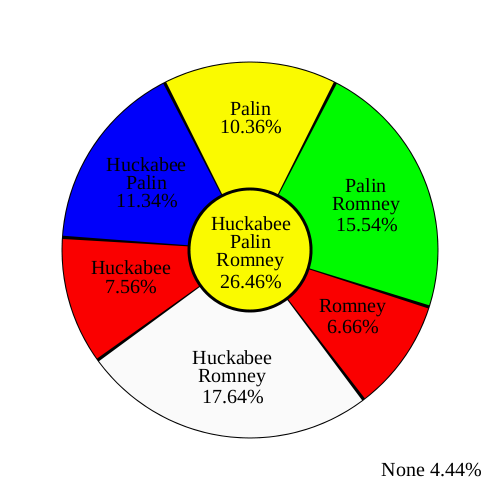
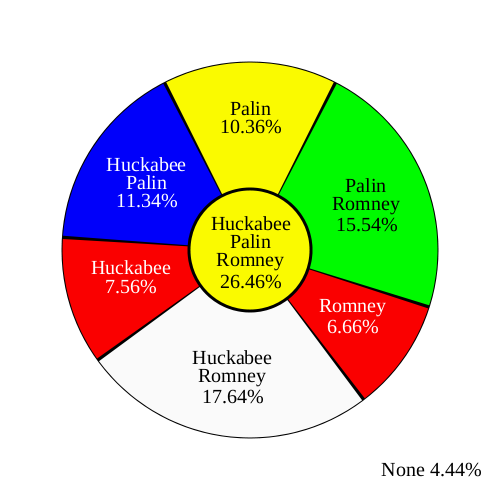
use white text on darker backgrounds

Changed region(s): [[0.21, 0.3, 0.36, 0.42], [0.18, 0.51, 0.36, 0.6], [0.63, 0.6, 0.78, 0.69]]

diff --git a/beachball.py b/beachball.py
@@ -13,6 +13,8 @@
 # enter your data here
 # ('NameX NameY', Pct, Color)
 # whatever Pct is left over is considered 'None'
+
+# original data
 data = [
 	('Palin',		 10.36, 'yellow'),
 	('Palin Romney',	 15.54, 'green' ),
@@ -22,6 +24,7 @@ data = [
 	('Huckabee Palin',	 11.34, 'blue'  ),
 	('Huckabee Palin Romney',26.46, 'yellow'), # 'All', center
 ]
+
 filename = 'beachball'
 width = 500.0
 height = 500.0
@@ -29,6 +32,8 @@ fontsize = 20
 fontname = "Times New Roman"
 
 colors = { # available colors: 'color' : (r, g, b)
+	'black': (0x00, 0x00, 0x00),
+	'white': (0xff, 0xff, 0xff),
 	'yellow':(0xf0, 0xde, 0x00),
 	'green': (0x00, 0xbc, 0x00),
 	'red':	 (0xc5, 0x00, 0x00),
@@ -50,7 +55,9 @@ line = width / 4
 
 #print('xc=%f yc=%f radius=%f line=%f' % (xc, yc, radius, line))
 
-def center_text(cr, x, y, names):
+# display centered text as given position
+def center_text(cr, x, y, bgrgb, names):
+	set_text_color(cr, bgrgb)
 	y -= fontsize / 2 # HACK
 	for n in names.split(' '):
 		_, _, width, height, _, _ = cr.text_extents(n)
@@ -58,6 +65,13 @@ def center_text(cr, x, y, names):
 		cr.show_text(n)
 		cr.stroke()
 		y += height + 4
+
+# figure out whether the fg color should be black or white based on bg color
+def set_text_color(cr, bgrgb):
+	if sum(bgrgb) < 0xff and max(bgrgb) <= 0xd0 and not (sum(bgrgb) == bgrgb[1]): # sufficiently dark
+		cr.set_source_rgb(1, 1, 1)
+	else:
+		cr.set_source_rgb(0, 0, 0)
 
 # set up
 surface = cairo.SVGSurface(filename + '.svg', width, height)
@@ -97,15 +111,14 @@ for i in range(len(data)-1):
 	cr.arc(xc, yc, radius, radians(start), radians(start + w))
 	cr.stroke()
 	# calc name
-	namepos.append((start, w, name + ' %4.2f%%' % (pct)))
+	namepos.append((start, w, c, name + ' %4.2f%%' % (pct)))
 	# loop
 	start += w + 1
 
-cr.set_source_rgb(0,0,0)
-for start,w,name in namepos:
+for start,w,rgb,name in namepos:
 	x = xc + cos(radians(start + w/2)) * radius
 	y = yc + sin(radians(start + w/2)) * radius
-	center_text(cr, x, y, name)
+	center_text(cr, x, y, rgb, name)
 
 # draw center
 # circle
@@ -118,7 +131,7 @@ cr.fill()
 cr.stroke()
 # names
 cr.set_source_rgb(0,0,0)
-center_text(cr, xc, yc - fontsize / 2, '%s %4.2f%%' % (allName, allPct))
+center_text(cr, xc, yc - fontsize / 2, c, '%s %4.2f%%' % (allName, allPct))
 
 # display "None" in corner
 nonePct = 100.0 - pctMinusAll - allPct
